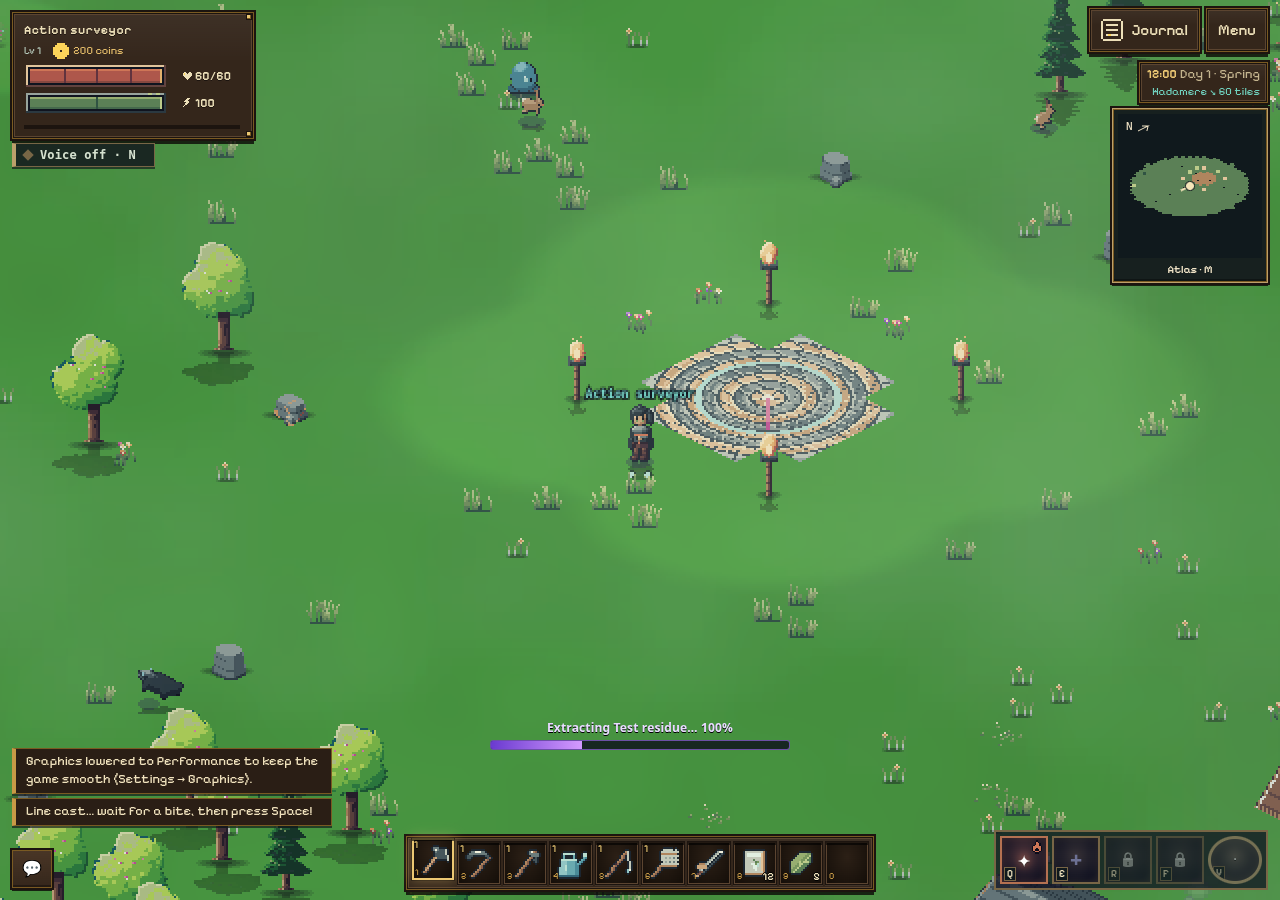
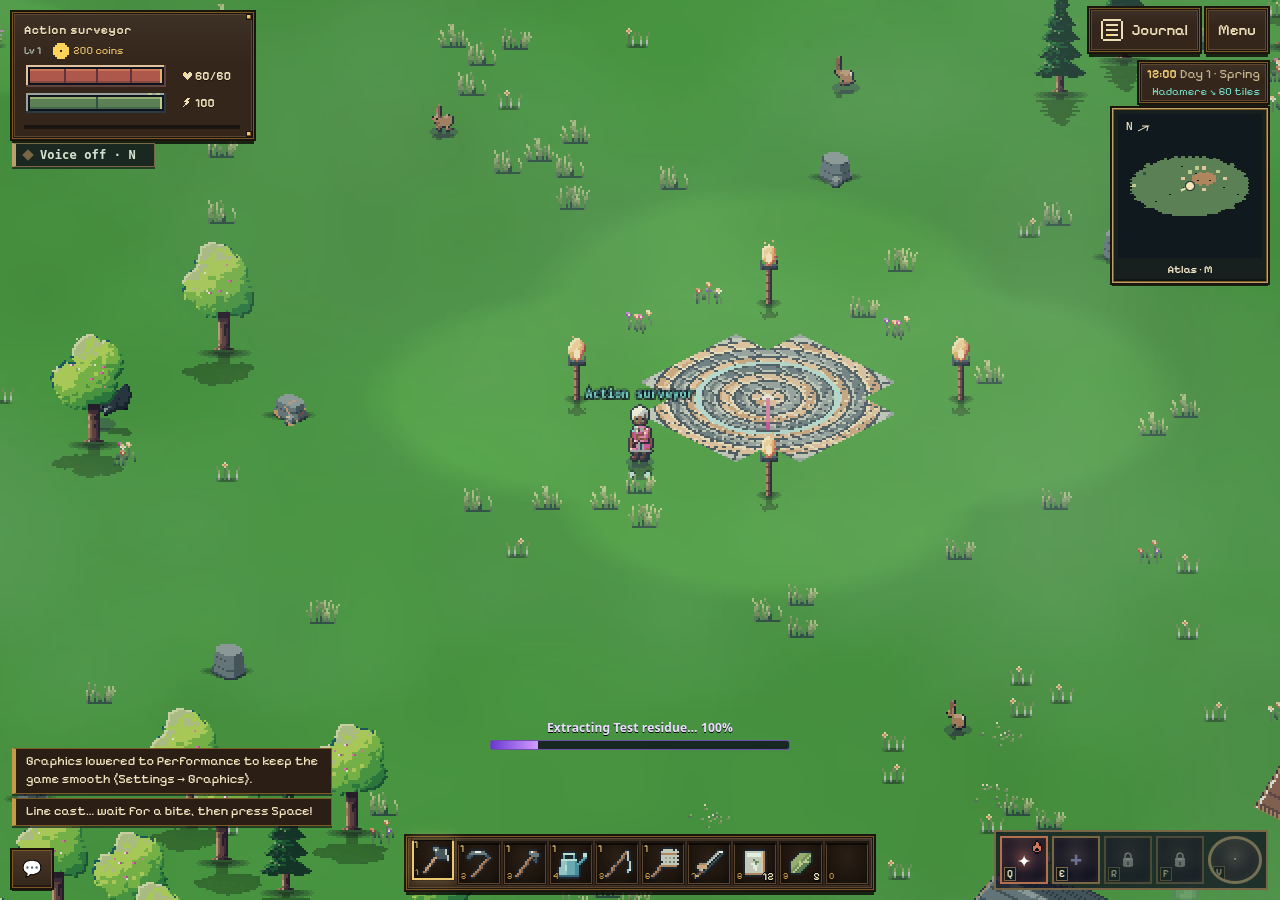
fix: align held tools with the grounded body offset

diff --git a/packages/client/src/game/Game.ts b/packages/client/src/game/Game.ts
@@ -1827,7 +1827,7 @@ export class Game {
           const pose = frame >= 30 ? frame : v.sprite.texture.frame.x / 24;
           v.held.texture = this.heldWeapons.texture(heldItem, direction, pose);
           v.held.visible = true;
-          v.held.y = riding ? v.sprite.y + 9 : 0;
+          v.held.y = riding ? v.sprite.y + 9 : v.sprite.y;
           v.held.alpha = v.sprite.alpha;
           v.root.setChildIndex(v.held, direction === 1 || direction >= 6 ? 1 : v.root.children.length - 1);
         } else if (v.held) v.held.visible = false;
